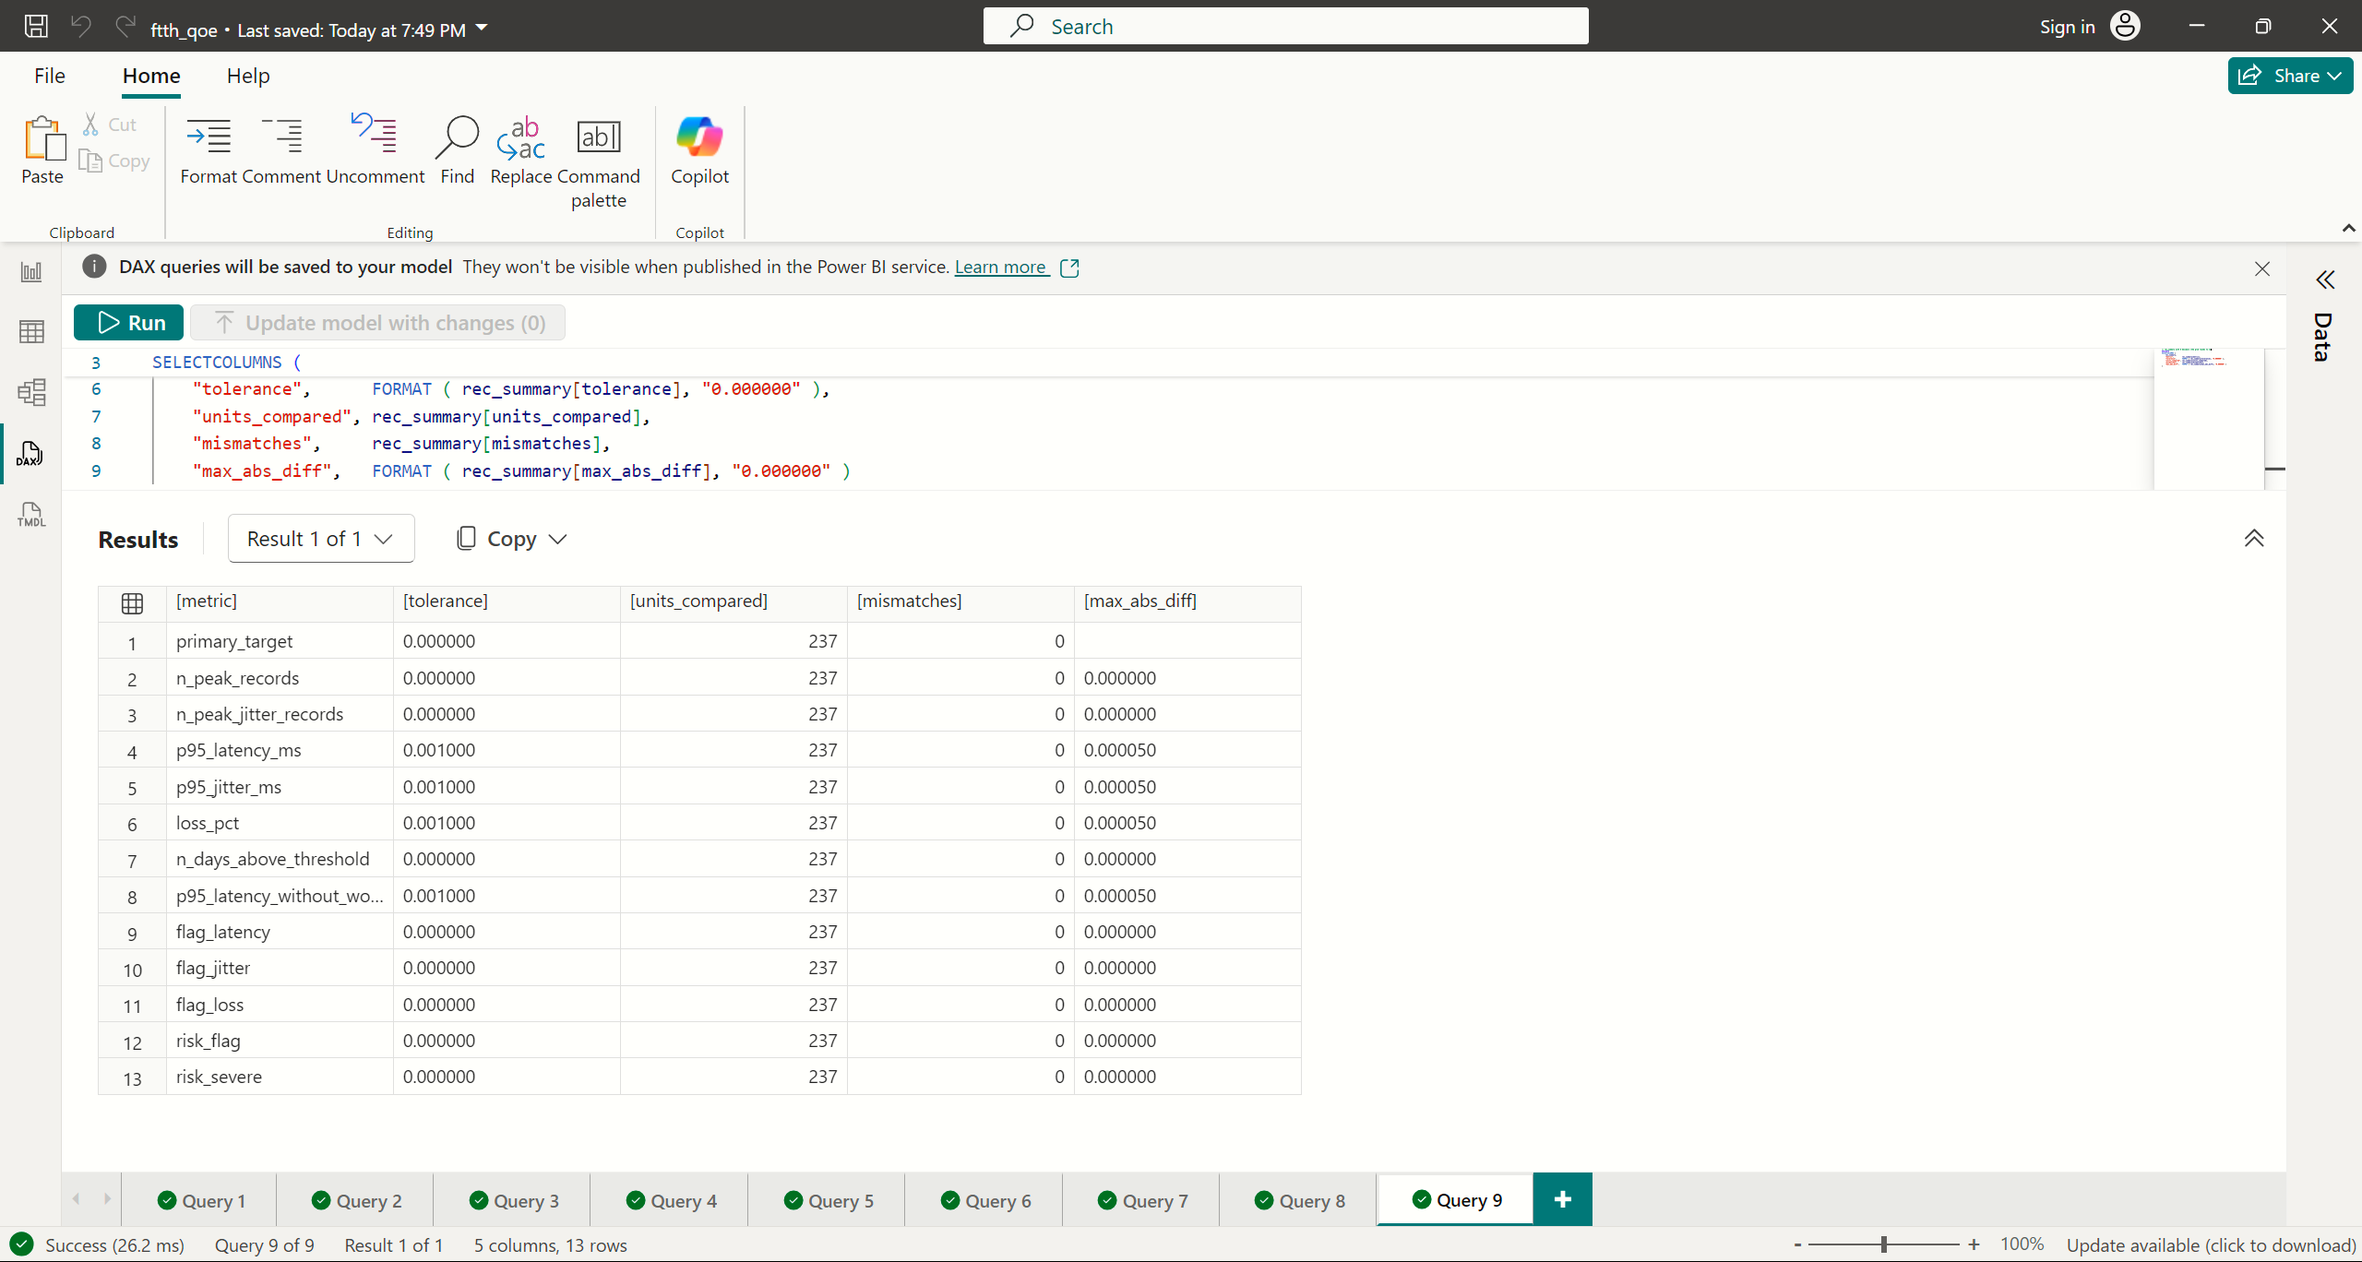
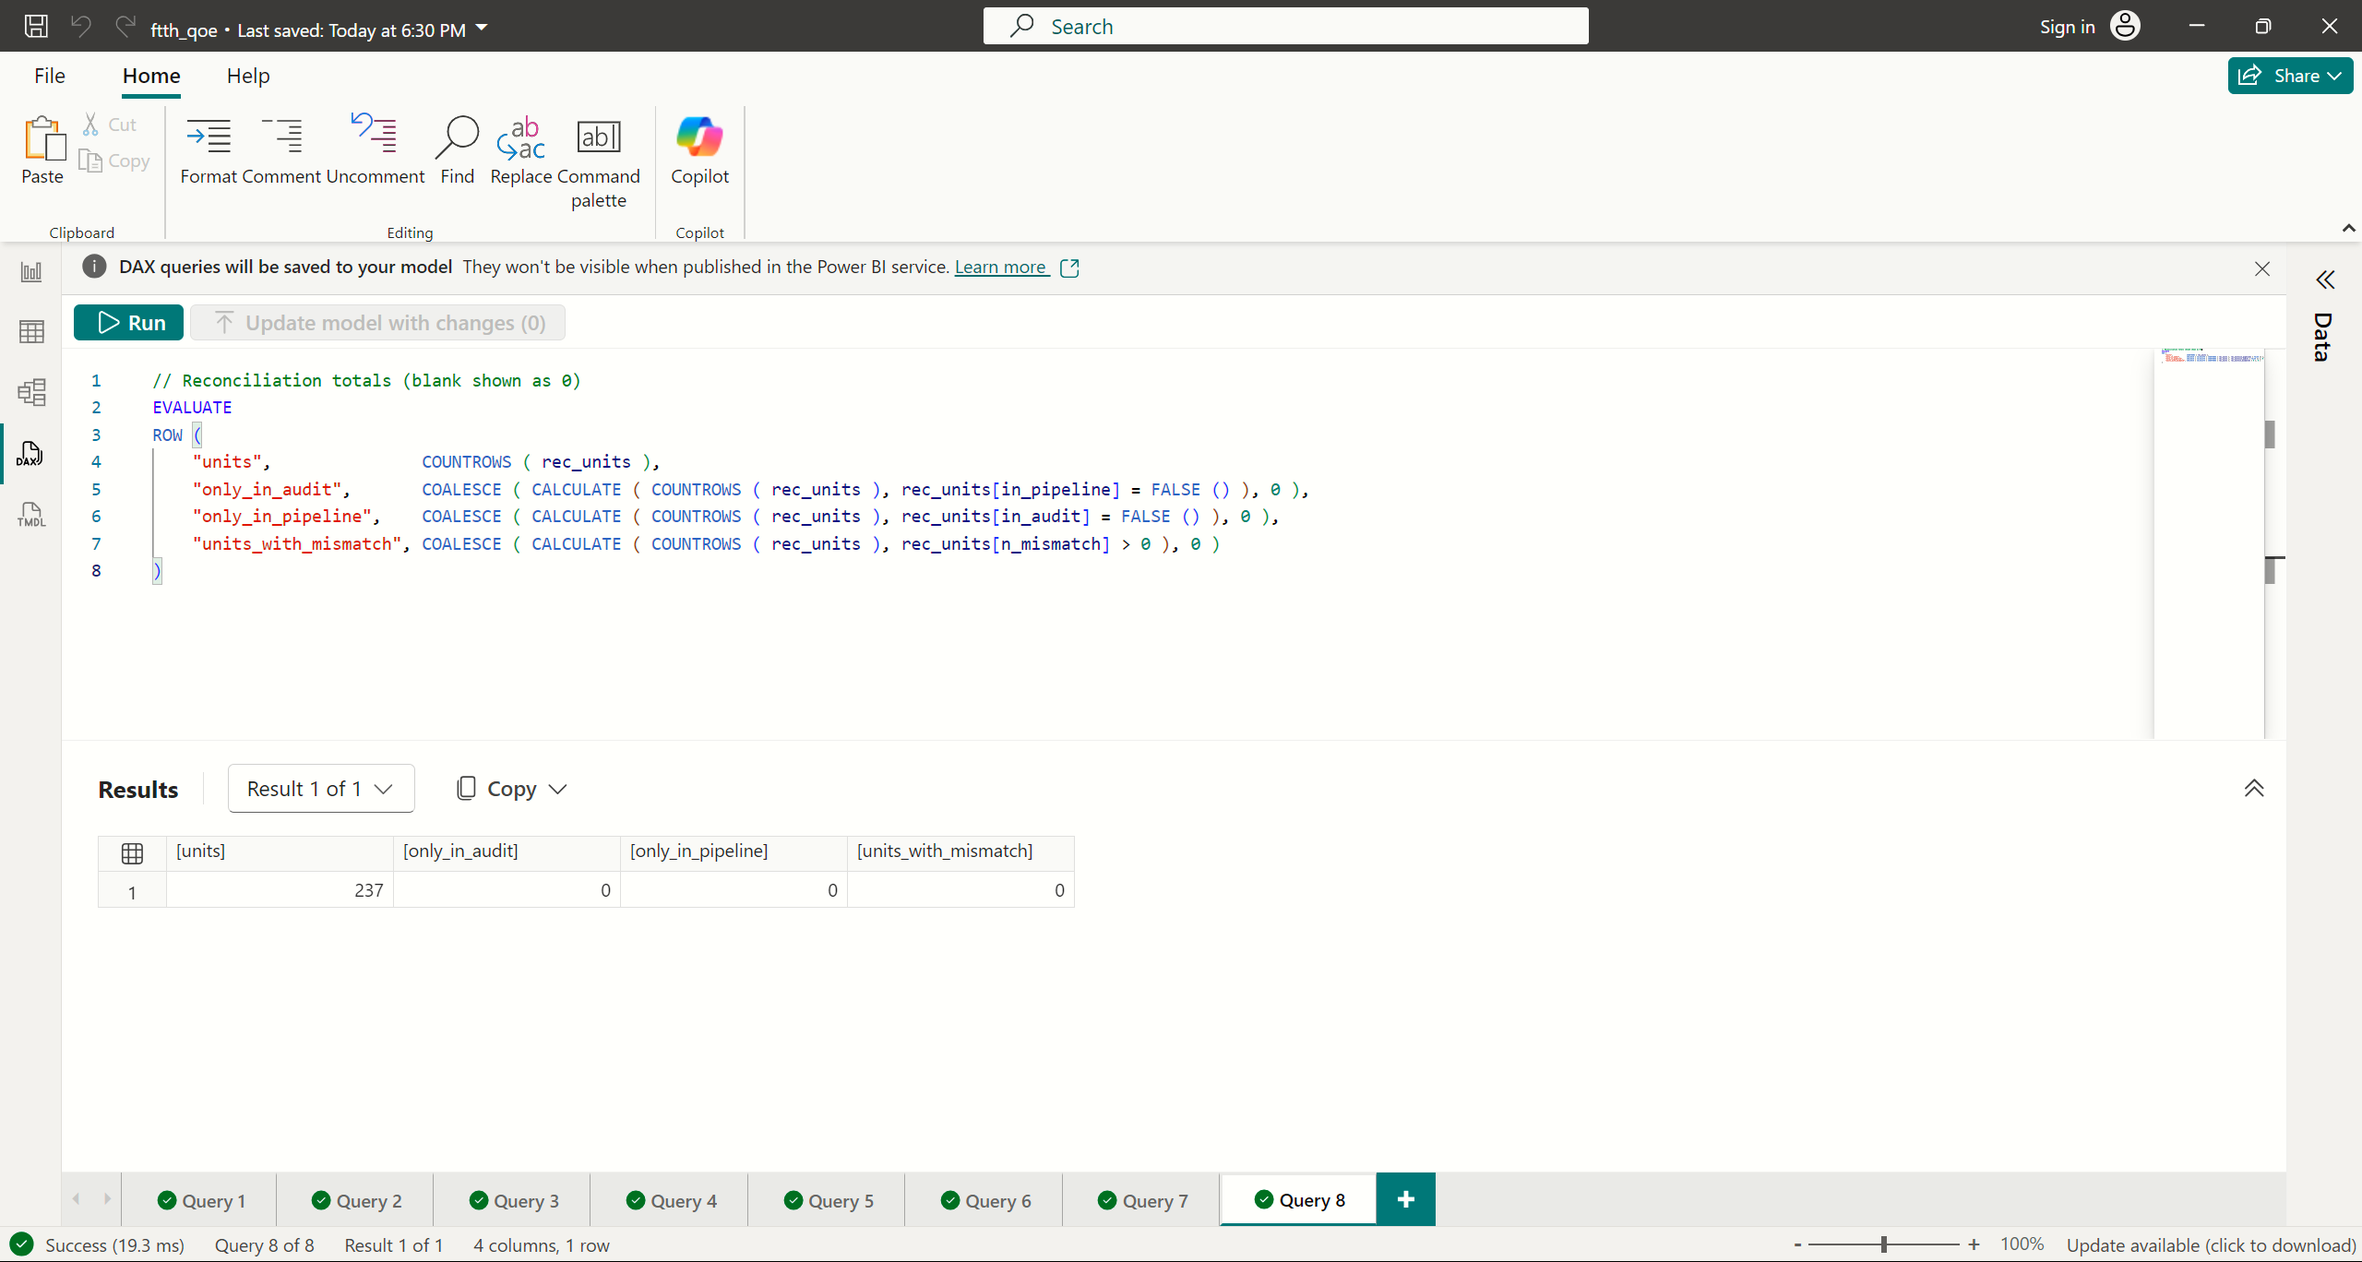
reconciliation python vs Power BI and evidence

diff --git a/docs/powerbi_implementation.md b/docs/powerbi_implementation.md
@@ -5,8 +5,8 @@ Living document. It records what was built in Power BI, the reason behind each s
 - **Tool:** Power BI Desktop 2.157.1354.0 (64-bit)
 - **Project file:** `powerbi/ftth_qoe.pbix`
 - **Last updated:** 2026-10-21
-- **Status:** Sessions 1-3 complete (load, model, base measures). Sessions 4A-6 complete (the full audit table is built: cleaning, peak window, primary server, P95 latency/jitter, loss, flags, severity and D-10 columns). Session 7A complete (per-unit reconciliation of the 237 analyzed units: 0 mismatches). Session 7B (21 insufficient units) and sessions 8-9 pending.
-- **Images:** `docs/img/powerbi/` (`01_unit_metrics_load.png`, `02_unit_metrics_null_jitter.png`, `03_model_view_flat.png`, `04_hierarchy_matrix.png`, `05_measures_check.png`, `06_audit_data_quality_check.png`, `07_audit_core_totals.png`, `08_audit_core_control_units.png`, `09_audit_jitter_dq_check.png`, `10_audit_jitter_conflicts.png`, `11_audit_units_totals.png`, `12_audit_units_jitter_controls.png`, `13_audit_unit_metrics_totals.png`, `14_audit_unit_metrics_d10_controls.png`, `15_reconciliation_totals.png`, `16_reconciliation_summary.png`; numbered in order of appearance, matching Figures 1-16)
+- **Status:** Sessions 1-3 complete (load, model, base measures). Sessions 4A-6 complete (the full audit table is built: cleaning, peak window, primary server, P95 latency/jitter, loss, flags, severity and D-10 columns). Session 7 complete (per-unit reconciliation of the 237 analyzed units and the 21 insufficient units: 0 mismatches; result in `docs/reconciliation.md`). Sessions 8-9 pending.
+- **Images:** `docs/img/powerbi/` (`01_unit_metrics_load.png`, `02_unit_metrics_null_jitter.png`, `03_model_view_flat.png`, `04_hierarchy_matrix.png`, `05_measures_check.png`, `06_audit_data_quality_check.png`, `07_audit_core_totals.png`, `08_audit_core_control_units.png`, `09_audit_jitter_dq_check.png`, `10_audit_jitter_conflicts.png`, `11_audit_units_totals.png`, `12_audit_units_jitter_controls.png`, `13_audit_unit_metrics_totals.png`, `14_audit_unit_metrics_d10_controls.png`, `15_reconciliation_totals.png`, `16_reconciliation_summary.png`, `17_reconciliation_insufficient.png`; numbered in order of appearance, matching Figures 1-17)
 
 ## 1. Role of Power BI in this project
 
@@ -645,7 +645,11 @@ Four control units were checked against the pipeline output:
 
 **Result.** Unit 4190285 is the episodic case: its P95 (50.0035 ms) is just above the severe threshold, and removing one day brings it to 14.77 ms. The other four flagged units stay above 20 ms without their worst day. Per-unit differences, if any, are reported in session 7.
 
-## 10. Session 7A - Per-unit reconciliation of the analyzed units (Analyze the data)
+## 10. Session 7 - Per-unit reconciliation (Analyze the data)
+
+Session 7A reconciles the 237 analyzed units (sections 10.1 to 10.4); session 7B reconciles the 21 insufficient units (section 10.5). The result of both is summarized in `docs/reconciliation.md`.
+
+### Session 7A - Analyzed units
 
 **Goal.** Compare, unit by unit, the audit table built in Power Query (`aud_unit_metrics`) with the pipeline output (`unit_metrics`, loaded in session 1 from `data/processed/ftth_qoe_unit_metrics.csv`), as required by `docs/metrics_spec.md`, section 8. Reconciliation is never done by totals only: every unit is compared, and a difference would be analyzed one unit at a time (window, time convention, server rule, nulls).
 
@@ -830,7 +834,63 @@ SELECTCOLUMNS (
 
 **Reading of the result.** The pipeline file stores four decimals and the audit computes without rounding, so a maximum difference of 0.000050 (half a unit of the fourth decimal) is the footprint of that rounding. It also shows that the comparison really ran: a maximum of exactly 0 in every numeric metric would have been suspicious. All differences are 20 times smaller than the tolerance. Null jitter coincides in the same 93 units, since `p95_jitter_ms` has 237 units compared and 0 mismatches.
 
-**Pending (7B).** The 21 insufficient units are not in `unit_metrics`; they are reconciled separately against `units_insufficient`, and the result of both parts is saved in `docs/reconciliation.md`.
+### 10.5 Session 7B - Insufficient units
+
+**Goal.** The 21 units below `N_MIN` are not in `unit_metrics`, so they are reconciled separately against `units_insufficient` (loaded in session 1 from `data/processed/units_insufficient_data.csv`). With 7A this covers the whole population: 237 + 21 = 258.
+
+**Design.** Same pattern as `rec_units`: full outer join by `unit_id` (converted to `Int64` on the pipeline side, as in 10.3), presence flags and an exact comparison of the three columns the pipeline reports for these units: `primary_target`, `n_peak_records` and `n_peak_jitter_records`. No P95, loss or flags exist for them because they are not scored.
+
+**`rec_insufficient`**
+```m
+// rec_insufficient: per-unit reconciliation of the units below N_MIN.
+// Audit side: aud_unit_metrics with status "insufficient".
+// Pipeline side: units_insufficient (data/processed/units_insufficient_data.csv).
+// Same design as rec_units: full outer join by unit_id, presence flags, exact comparison per metric.
+let
+    Metrics = {"primary_target", "n_peak_records", "n_peak_jitter_records"},
+    // buffered so the join does not enumerate the audit chain more than once
+    AuditRows = Table.Buffer(Table.SelectRows(aud_unit_metrics, each [status] = "insufficient")),
+    A = Table.RenameColumns(Table.SelectColumns(AuditRows, {"unit_id"} & Metrics),
+            List.Transform({"unit_id"} & Metrics, each {_, "aud_" & _})),
+    // unit_id must have the same type on both sides (text vs integer would match nothing)
+    P0 = Table.TransformColumnTypes(Table.SelectColumns(units_insufficient, {"unit_id"} & Metrics), {{"unit_id", Int64.Type}}, "en-US"),
+    P = Table.RenameColumns(P0, List.Transform({"unit_id"} & Metrics, each {_, "pip_" & _})),
+    // full outer join: a unit present on one side only must show up
+    Joined0 = Table.NestedJoin(A, {"aud_unit_id"}, P, {"pip_unit_id"}, "p", JoinKind.FullOuter),
+    Joined = Table.ExpandTableColumn(Joined0, "p", List.Transform({"unit_id"} & Metrics, each "pip_" & _)),
+    WithId = Table.AddColumn(Joined, "unit_id",
+        each if [aud_unit_id] <> null then [aud_unit_id] else [pip_unit_id], Int64.Type),
+    InAudit = Table.AddColumn(WithId, "in_audit", each [aud_unit_id] <> null, type logical),
+    InPipeline = Table.AddColumn(InAudit, "in_pipeline", each [pip_unit_id] <> null, type logical),
+    // all three metrics are exact (text or counts); null equals null only
+    Ok = List.Accumulate(Metrics, InPipeline, (state, m) =>
+        Table.AddColumn(state, "ok_" & m,
+            each Record.Field(_, "aud_" & m) = Record.Field(_, "pip_" & m), type logical)),
+    // metrics that do not match in each unit (0 = unit fully reconciled)
+    Result = Table.AddColumn(Ok, "n_mismatch",
+        each List.Count(List.Select(List.Transform(Metrics, (c) => Record.Field(_, "ok_" & c)), each _ = false)), Int64.Type)
+in
+    Result
+```
+`rec_insufficient` is loaded.
+
+**Verification.**
+```dax
+// Reconciliation of insufficient units (blank shown as 0)
+EVALUATE
+ROW (
+    "units",               COUNTROWS ( rec_insufficient ),
+    "only_in_audit",       COALESCE ( CALCULATE ( COUNTROWS ( rec_insufficient ), rec_insufficient[in_pipeline] = FALSE () ), 0 ),
+    "only_in_pipeline",    COALESCE ( CALCULATE ( COUNTROWS ( rec_insufficient ), rec_insufficient[in_audit] = FALSE () ), 0 ),
+    "units_with_mismatch", COALESCE ( CALCULATE ( COUNTROWS ( rec_insufficient ), rec_insufficient[n_mismatch] > 0 ), 0 )
+)
+```
+
+![Reconciliation of the insufficient units in DAX query view](img/powerbi/17_reconciliation_insufficient.png)
+
+*Figure 17. 21 insufficient units compared, none present on one side only, none with a mismatch.*
+
+**Result.** The 21 insufficient units match in primary server, peak latency records and peak jitter records. Together with 7A, every one of the 258 units is reconciled. The result and its limits are documented in `docs/reconciliation.md`.
 
 ## 11. Modelling notes
 
@@ -851,6 +911,6 @@ SELECTCOLUMNS (
 | 5 | Audit phase 2: jitter cleaning (5A), P95 jitter with minimum 50 records (5B) - **done** | Prepare the data |
 | 6 | Audit phase 3: `risk_flag`, `risk_severe` and D-10 columns - **done** | Prepare the data |
 | 7A | Per-`Unit ID` reconciliation of the 237 analyzed units - **done** | Analyze the data |
-| 7B | Reconciliation of the 21 insufficient units -> `docs/reconciliation.md` | Analyze the data |
+| 7B | Reconciliation of the 21 insufficient units; result in `docs/reconciliation.md` - **done** | Analyze the data |
 | 8 | Report pages and narrative | Visualize and analyze |
 | 9 | Performance, documentation, publishing | Manage and secure |

diff --git a/docs/reconciliation.md b/docs/reconciliation.md
@@ -1,0 +1,98 @@
+# Reconciliation: Python pipeline vs Power Query audit
+
+**Version:** 1.0.0 · **Last updated:** 2026-10-21
+**Purpose:** Record the unit-by-unit comparison between the Python pipeline output (`data/processed/`) and an independent recomputation in Power Query, as required by `docs/metrics_spec.md`, section 8. Reconciliation is judged per `Unit ID`; totals are shown only as controls.
+
+## 1. Result
+
+| Scope | Units | Mismatches | Maximum absolute difference |
+| :--- | :-: | :-: | :--- |
+| Analyzed units, 13 metrics | 237 | 0 | 0.000050 (P95 and loss); 0 (counts, flags) |
+| Insufficient units, 3 metrics | 21 | 0 | exact match |
+| Units present on one side only | 0 | | |
+
+All 258 units of the population (237 + 21) match. No unit was outside the tolerance, so no unit needed a case-by-case analysis.
+
+## 2. Method
+
+- **Tool:** Power BI Desktop 2.157.1354.0, file `powerbi/ftth_qoe.pbix`. Step-by-step procedure, code and screenshots: `docs/powerbi_implementation.md` (sessions 4A to 7).
+- **Audit side:** Power Query queries (`aud_*`) that recompute the metrics from `data/interim/udplatency_ftth.csv` and `data/interim/udpjitter_ftth.csv` (output of `src/steps/step_1.py`), with the same rules: period D-01, valid records, duplicates D-05, peak window D-03, primary server D-04/D-06, minimum records D-02/D-07, P95 with linear interpolation, loss as a ratio of sums, flags with strictly-greater thresholds, severity and the D-10 columns. Thresholds and minimums are Power Query parameters that mirror `config.yaml`.
+- **Pipeline side:** `data/processed/ftth_qoe_unit_metrics.csv` (237 analyzed units) and `data/processed/units_insufficient_data.csv` (21 units), as loaded in the report model (`unit_metrics`, `units_insufficient`).
+- **Comparison:** full outer join by `unit_id` (queries `rec_units` and `rec_insufficient`), so a unit present on one side only appears in the result. Presence flags, one `ok_<metric>` and one `diff_<metric>` column per metric, and `n_mismatch` per unit.
+- **Tolerances** (spec section 8): +/- 0.001 ms for `p95_latency_ms`, `p95_jitter_ms` and `p95_latency_without_worst_day_ms`; +/- 0.001 percentage points for `loss_pct`; exact match for `n_peak_records`, `n_peak_jitter_records`, `n_days_above_threshold` and `risk_flag`. The audit also requires exact match for `primary_target`, `flag_latency`, `flag_jitter`, `flag_loss` and `risk_severe` (stricter than the specification). Null jitter matches only null jitter.
+
+## 3. Cleaning stage (row counts)
+
+Both interim files were cleaned in Power Query and counted at each stage; the counts equal `data/processed/data_quality_log.csv`.
+
+| Stage | Latency | Jitter |
+| :--- | :-: | :-: |
+| Rows read | 172,800 | 152,730 |
+| In analysis period | 172,800 | 152,730 |
+| Valid records | 172,800 | 152,730 |
+| After removing exact duplicates | 172,791 | 152,726 |
+| Conflicting duplicate groups | 0 | 1 |
+| After cleaning | 172,791 | 152,724 |
+
+The only conflicting group is in jitter: unit 943232, server `sp1-vm-atlanta-us.samknows.com`, 2022-10-19 21:12:17, 2 rows, dropped completely (D-05).
+
+## 4. Per-unit results
+
+### 4.1 Analyzed units (237)
+
+| Metric | Tolerance | Units compared | Mismatches | Maximum absolute difference |
+| :--- | :-: | :-: | :-: | :-: |
+| `primary_target` | exact | 237 | 0 | not applicable (text) |
+| `n_peak_records` | exact | 237 | 0 | 0 |
+| `n_peak_jitter_records` | exact | 237 | 0 | 0 |
+| `p95_latency_ms` | 0.001 | 237 | 0 | 0.000050 |
+| `p95_jitter_ms` | 0.001 | 237 | 0 | 0.000050 |
+| `loss_pct` | 0.001 | 237 | 0 | 0.000050 |
+| `n_days_above_threshold` | exact | 237 | 0 | 0 |
+| `p95_latency_without_worst_day_ms` | 0.001 | 237 | 0 | 0.000050 |
+| `flag_latency`, `flag_jitter`, `flag_loss` | exact | 237 | 0 | 0 |
+| `risk_flag`, `risk_severe` | exact | 237 | 0 | 0 |
+
+**Reading.** The pipeline file stores four decimals and the audit computes without rounding, so a maximum difference of 0.000050 (half a unit of the fourth decimal) is the footprint of that rounding. It also shows that the comparison ran: a maximum of exactly 0 in every numeric metric would have been suspicious. All differences are 20 times smaller than the tolerance. Null jitter coincides in the same units (93 analyzed units).
+
+### 4.2 Insufficient units (21)
+
+`primary_target`, `n_peak_records` and `n_peak_jitter_records` match in the 21 units (exact), with none present on one side only.
+
+### 4.3 Control values
+
+| Control | Pipeline | Audit |
+| :--- | :-: | :-: |
+| Units: analyzed / insufficient / population | 237 / 21 / 258 | 237 / 21 / 258 |
+| Units at risk / severe | 5 / 1 | 5 / 1 |
+| Latency / jitter / loss flags | 5 / 0 / 1 | 5 / 0 / 1 |
+| Persistent / episodic latency flags (D-10) | 4 / 1 | 4 / 1 |
+| Analyzed units with null jitter | 93 | 93 |
+| Unit 4190285 (episodic case) | P95 50.0035, 1 day, 14.77 without worst day, severe | same |
+
+Screenshots: `docs/img/powerbi/15_reconciliation_totals.png`, `16_reconciliation_summary.png`, `17_reconciliation_insufficient.png`.
+
+![Reconciliation totals](img/powerbi/15_reconciliation_totals.png)
+
+![Reconciliation summary by metric](img/powerbi/16_reconciliation_summary.png)
+
+![Reconciliation of the insufficient units](img/powerbi/17_reconciliation_insufficient.png)
+
+## 5. Findings during the reconciliation
+
+None changed a result; they concern how the comparison is built.
+
+- **`unit_id` type.** It is text in the pipeline tables loaded in the model and integer in the audit. A join without conversion matched no unit (474 rows: 237 on each side only). The comparison converts it to integer; the model tables are unchanged.
+- **Rounding.** The pipeline CSV is rounded to four decimals; the audit is not. Differences up to 0.00005 are expected and inside the tolerance.
+- **Query evaluation.** Referencing the audit chain many times re-read the interim CSV (3.98 GB read in one load). The comparison queries buffer the audit side with `Table.Buffer`.
+
+## 6. Scope and limits
+
+- **Independence.** The audit was written from the same specification and decisions as the pipeline, so it verifies the implementation of the rules (same output from two independent code paths), not the validity of the decisions D-01 to D-10. Both use linear interpolation for the percentile; agreement does not test that choice.
+- **Source.** The audit reads `data/interim/` (output of `step_1.py`, gitignored), not the raw 6.8 GB files. The 258-unit filter in step 1 is therefore not audited here; it is covered by `tests/test_unit_metrics.py`.
+- **Not reconciled:** `sensitivity_grid` and `variants_matrix` (precomputed by the pipeline and shown in the report as they are), the UTC-reading and all-servers variants, and the descriptive attributes copied from `fiber_units` (ISP, state, census, speed tiers, Whitebox model).
+- **Reproduction.** The interim files must exist locally (`python src/steps/step_1.py`). Open `powerbi/ftth_qoe.pbix`, set the `RepoPath` parameter and refresh. The comparison queries are in `docs/powerbi_implementation.md`, section 10.
+
+## 7. Conclusion
+
+The Power Query audit reproduces the Python pipeline output for the 258 units of the population within the tolerances of `docs/metrics_spec.md`, section 8: 237 analyzed units on 13 metrics and 21 insufficient units on 3 metrics, with 0 mismatches and no unit present on one side only. The reconciliation required by the specification is complete for the scope described in section 6.
